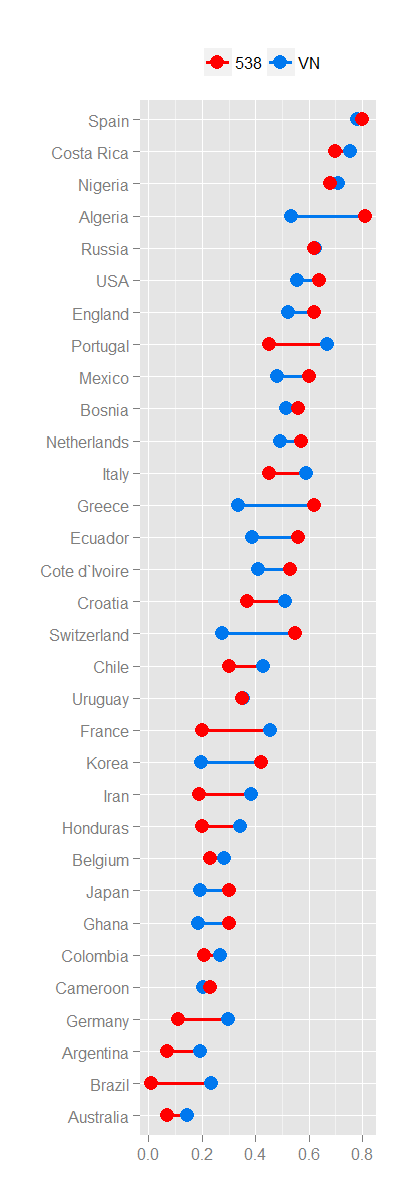
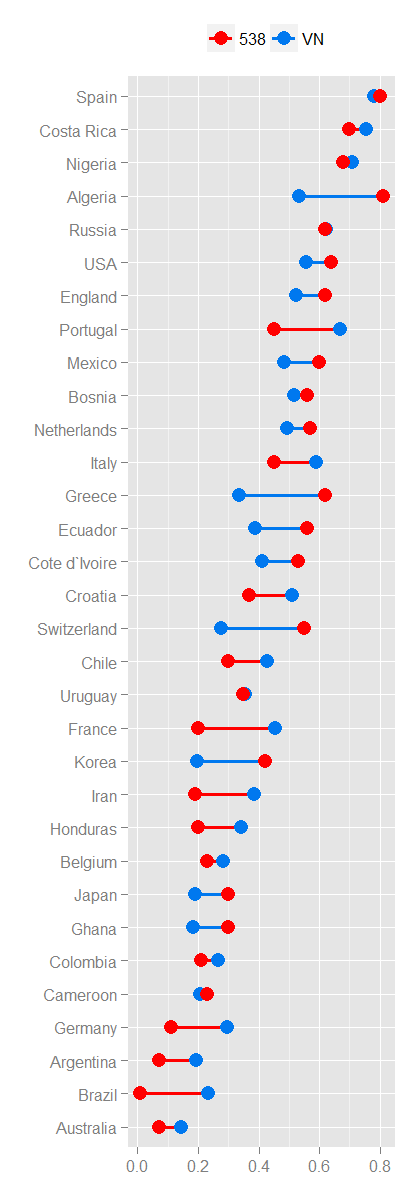
add chart label

Changed region(s): [[0.09, 0.0, 0.99, 0.9867]]

diff --git a/projects/2014_wc_group_result/index.html b/projects/2014_wc_group_result/index.html
@@ -61,6 +61,7 @@
 			<p>Instead of a loud victory featuring David over Goliath, the true result is more of a inconclusive shrug with a strong nod to the power of randomness.</p>
 
 			<div id="team_div">
+				<div class='chart_title' width='300'>Forecast Error by Country & Forecaster</div>
 				<img border="0" src="webfiles/group_stage_outcome.png" alt="All Positions" width="300" height="900">
 			</div>
 

diff --git a/projects/2014_wc_group_result/webfiles/style.css b/projects/2014_wc_group_result/webfiles/style.css
@@ -16,3 +16,9 @@
 	padding-top: 12px;
 	padding-bottom: 15px;
 }
+
+.chart_title{
+	font-family:sans-serif;
+	text-align: right;
+	font-weight: bold;
+}
